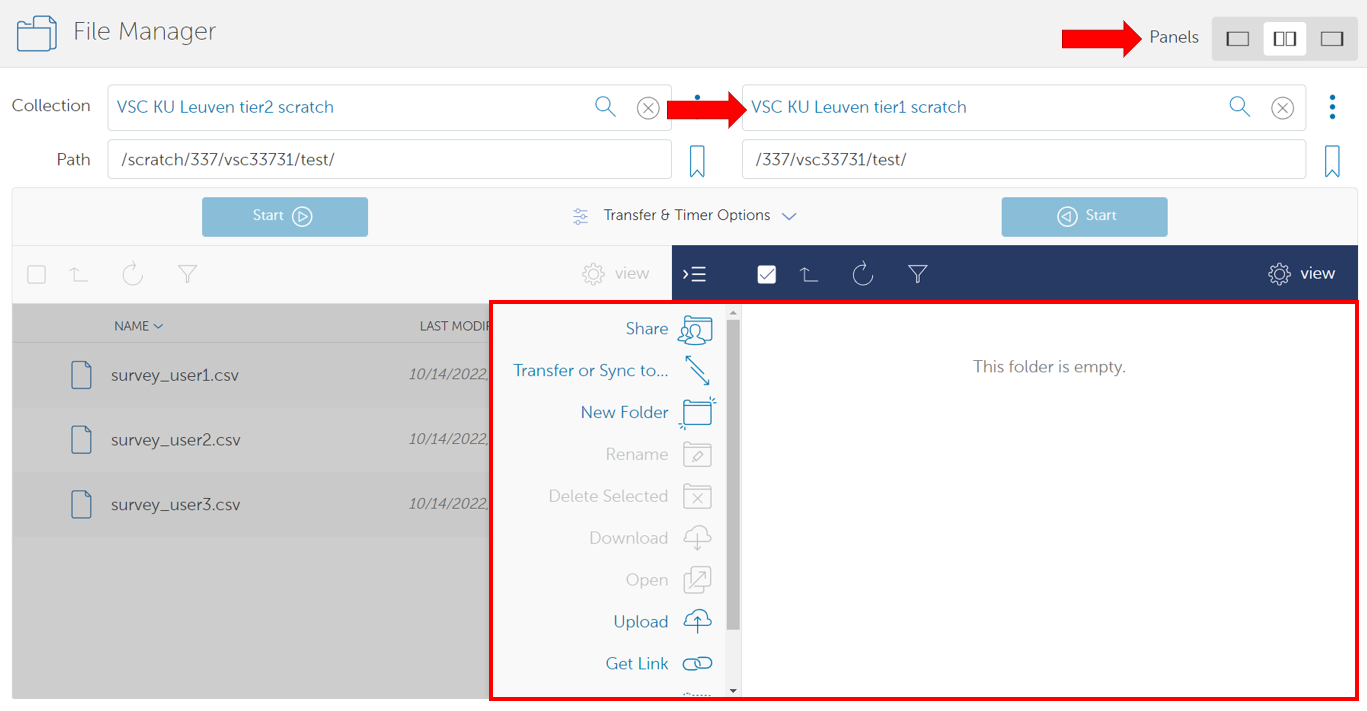
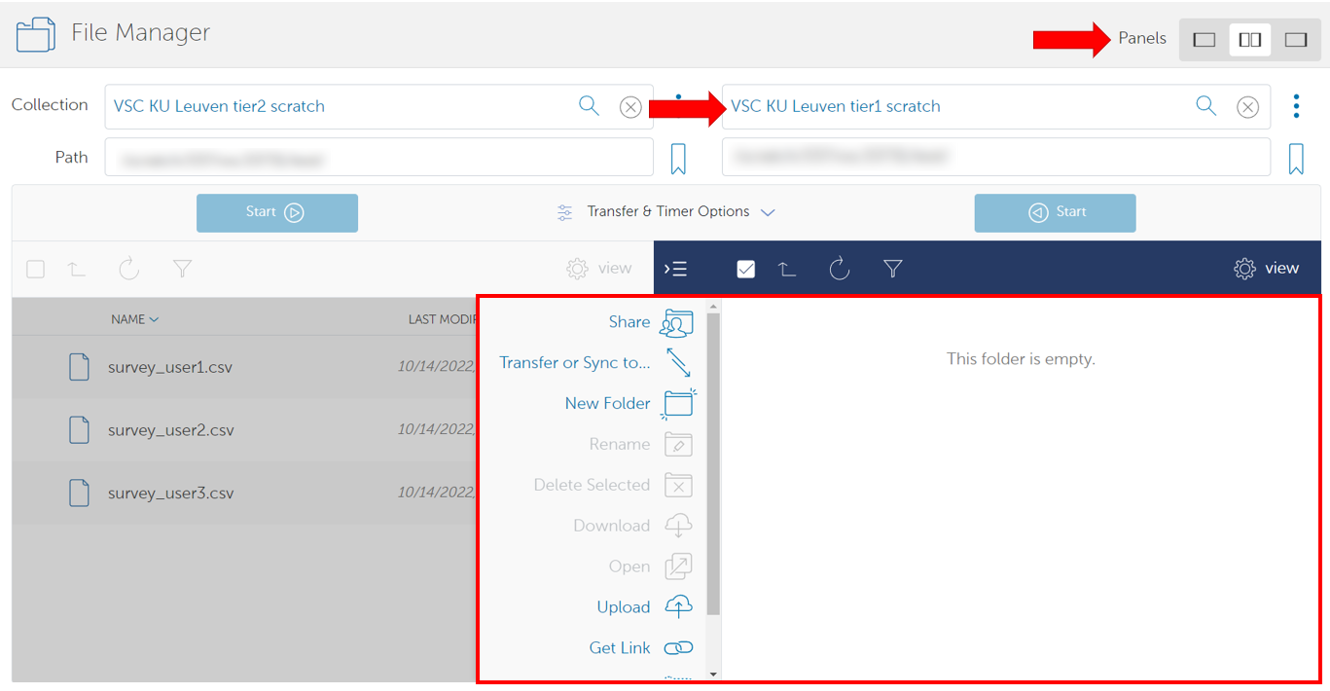
omit paths

diff --git a/source/globus/cli.rst b/source/globus/cli.rst
@@ -69,7 +69,8 @@ You can specify a directory path on the collection after a colon::
             scratch/                                                            
       
       # To list a specific directory:
-      $ globus ls $kuleuventier2scratch:scratch/<redacted>/<username>/test
+      # (In this snippet, a real VSC account is replaced with 'vscxxxxx')
+      $ globus ls $kuleuventier2scratch:scratch/xxx/vscxxxxx/test
             statistics/
             survey_user1.csv
             survey_user2.csv
